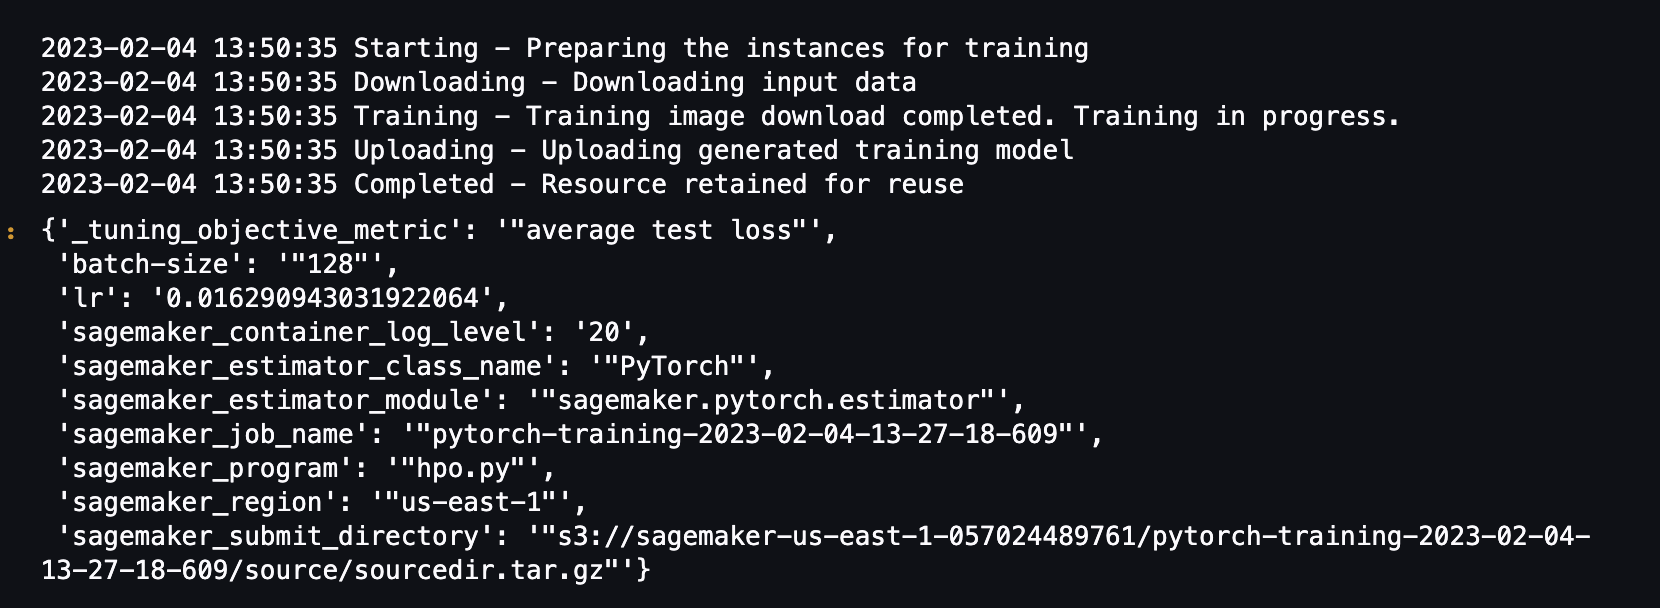
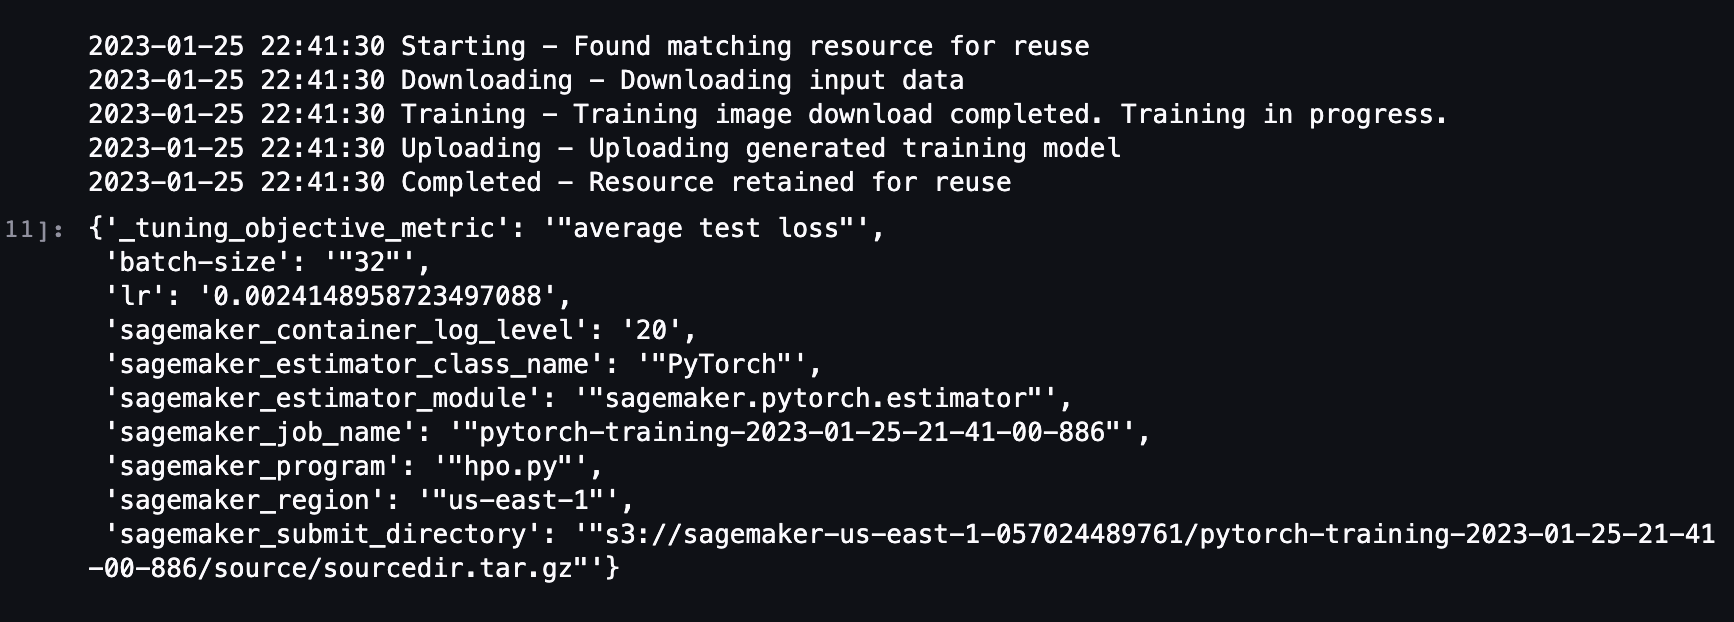
updates

Changed region(s): [[0.0, 0.0312, 1.0, 0.9688]]

diff --git a/README.md b/README.md
@@ -35,9 +35,10 @@ Learning rate has the potential to decrease the losses caused by a faster gradie
 
 Varying the batch size, on the other hand, may help with the non-uniform distribution of images for each class, however, may lead to poor generalization.
 
-The ranges were chosen taking into account that the training time and costs need to be optimized. These were taken into account after the training and testing loss from the inital training led to a plot that had telltale signs of overfitting.
+The ranges were chosen taking the details mentioned above into account, while considering time and limitations budget. 
 
-Based on comments from my initial profile report, which advised choosing an instance type with a reduced capacity, another difference between the 2 trials would be the reduction from ml.g4dn.4xlarge to ml.m5.large.
+Taking into account the batch sizes used for the training and that there are a total of 6683 images in my training data, it was necessary to run the training using parallel jobs. As epochs were not added to the hyperparameters to be tuned, the hyperparameter tuning instances consisted of multiple training jobs. 
+
 
 **Initial Hyperparameters**
 
@@ -48,18 +49,8 @@ hyperparameter_ranges = {
 }
 ```
 
-![Results From Initial Hyperparameters](hporesults.png)
+![Results From Initial Hyperparameters](bestParameters.png)
 
-**Final Hyperparameters**
-
-```python
-hyperparameter_ranges = {
-        "lr" : ContinuousParameter(0.01,0.1),
-        "batch-size" : CategoricalParameter([32,64,128])
-}
-```
-
-![The results of Second Hyperparameter Tuning](bestParameters.png)
 
 
 ## Debugging and Profiling
